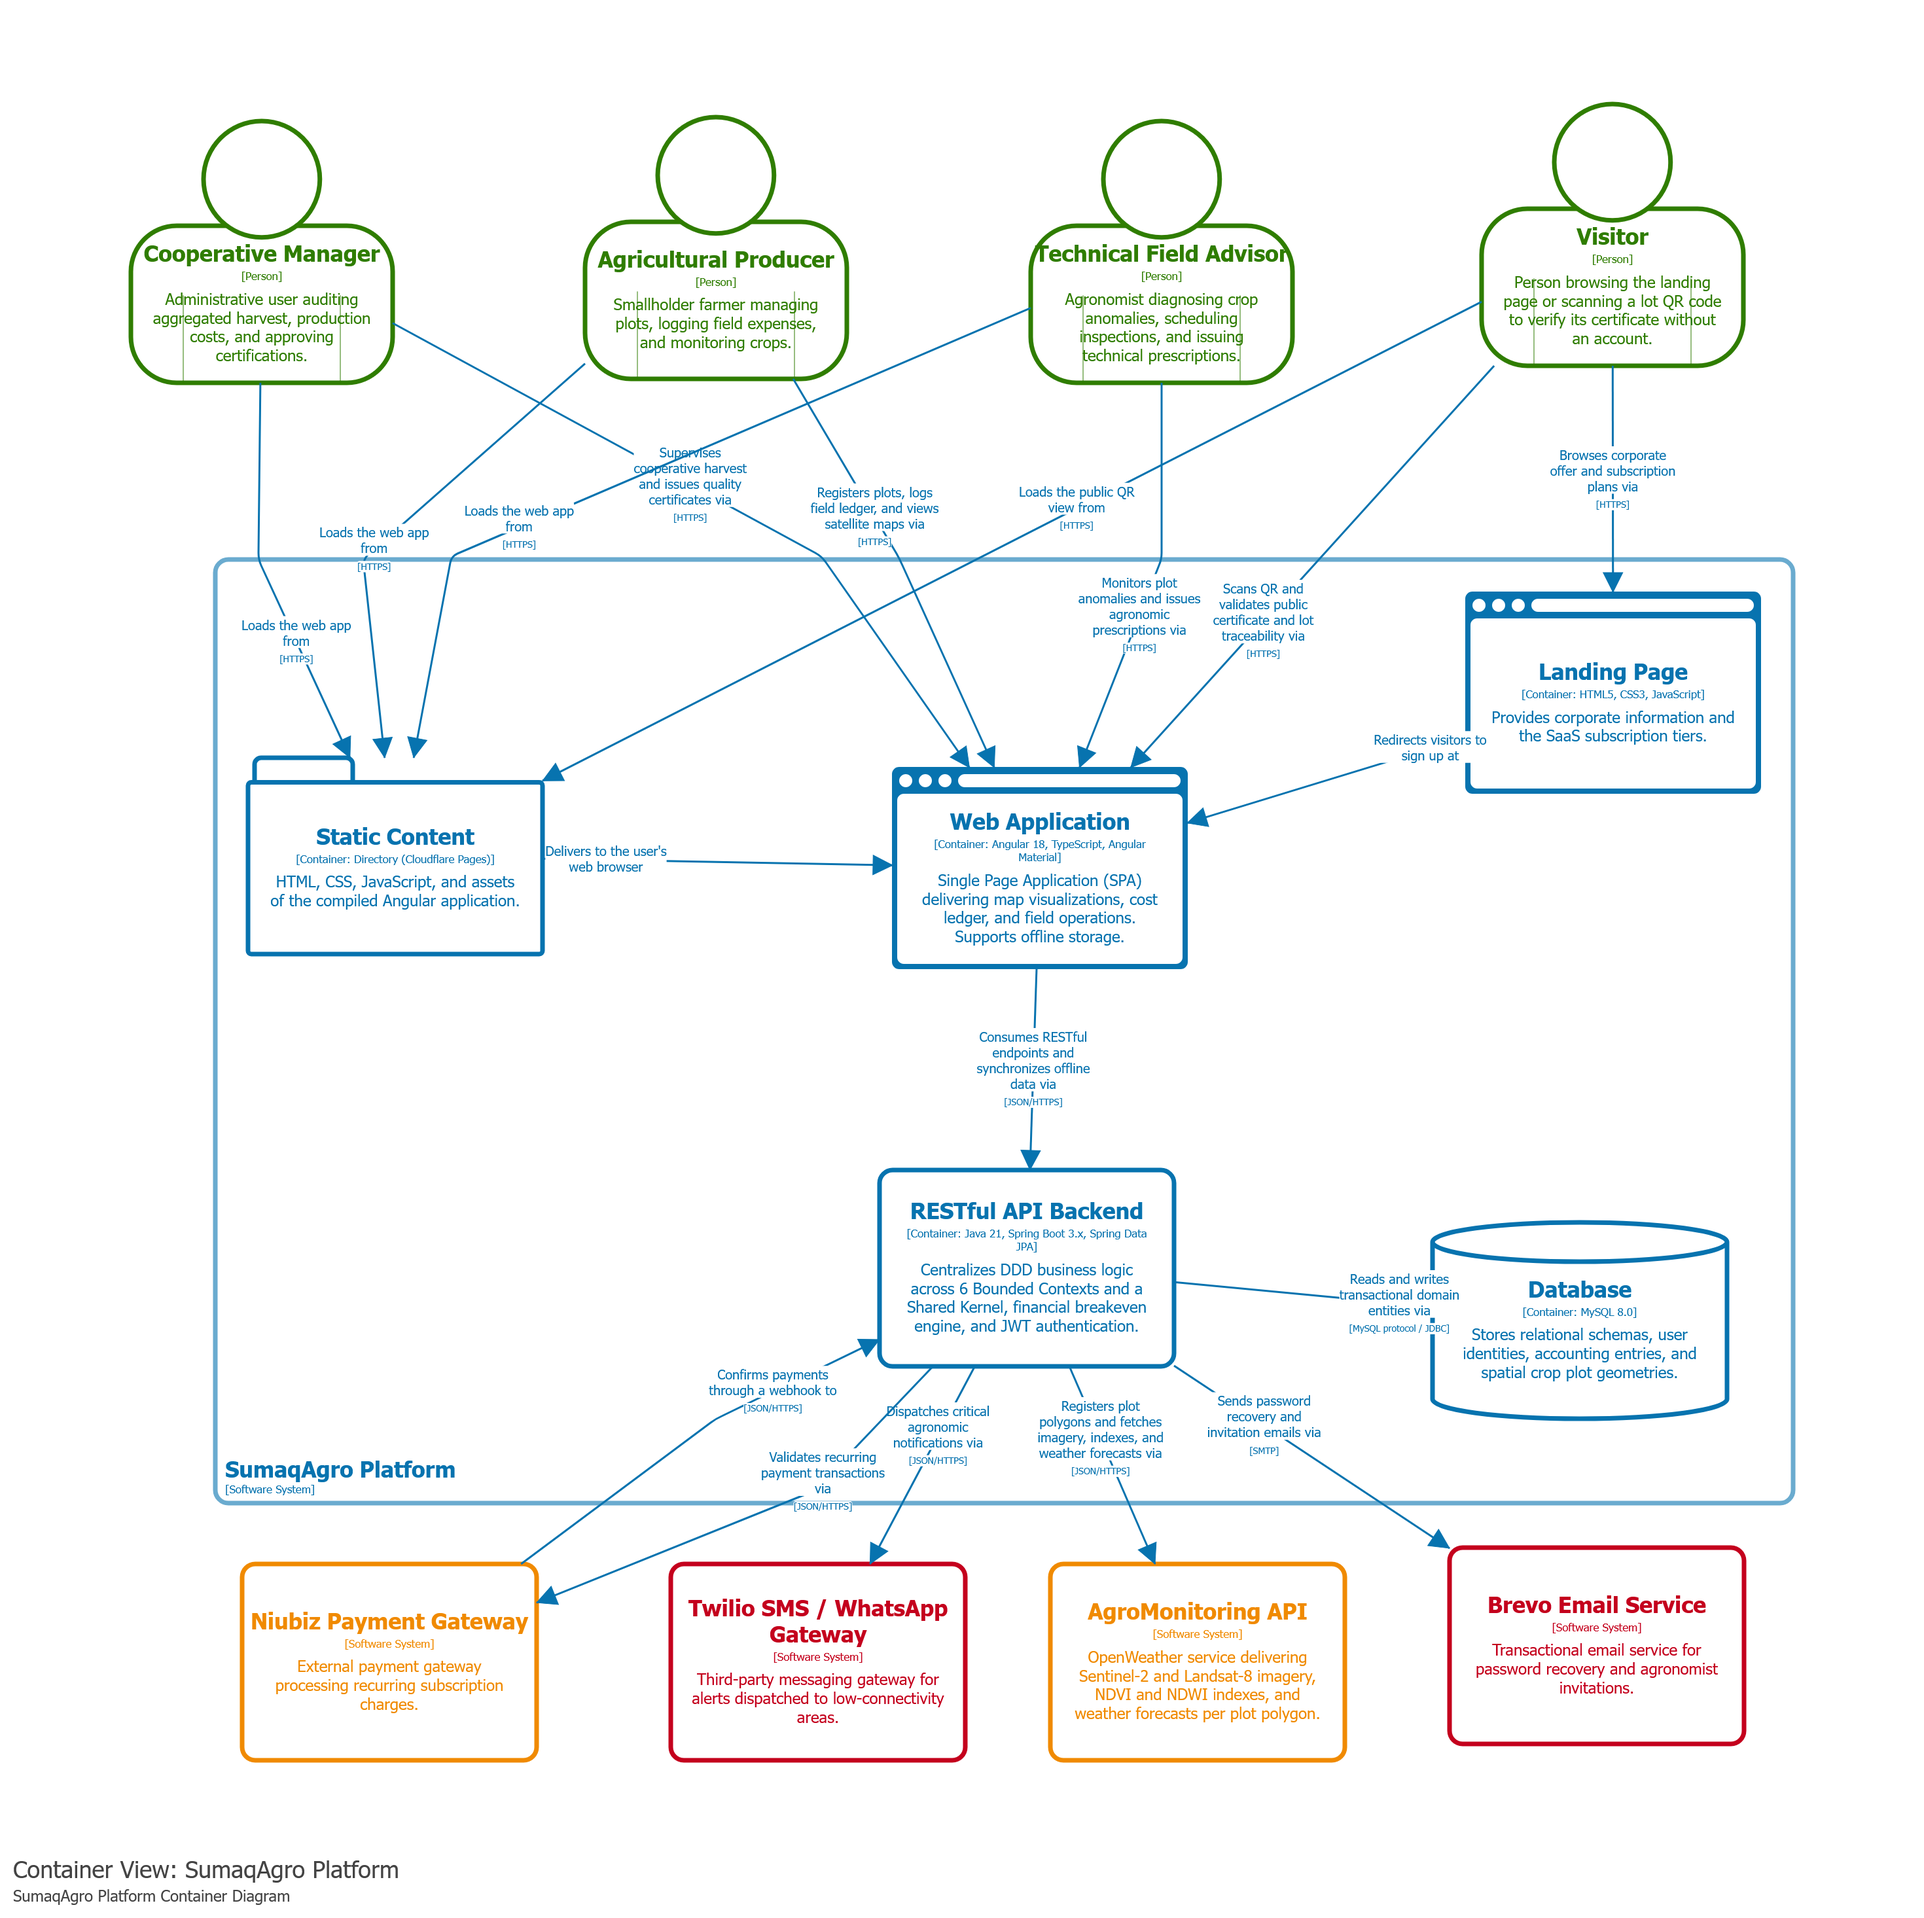
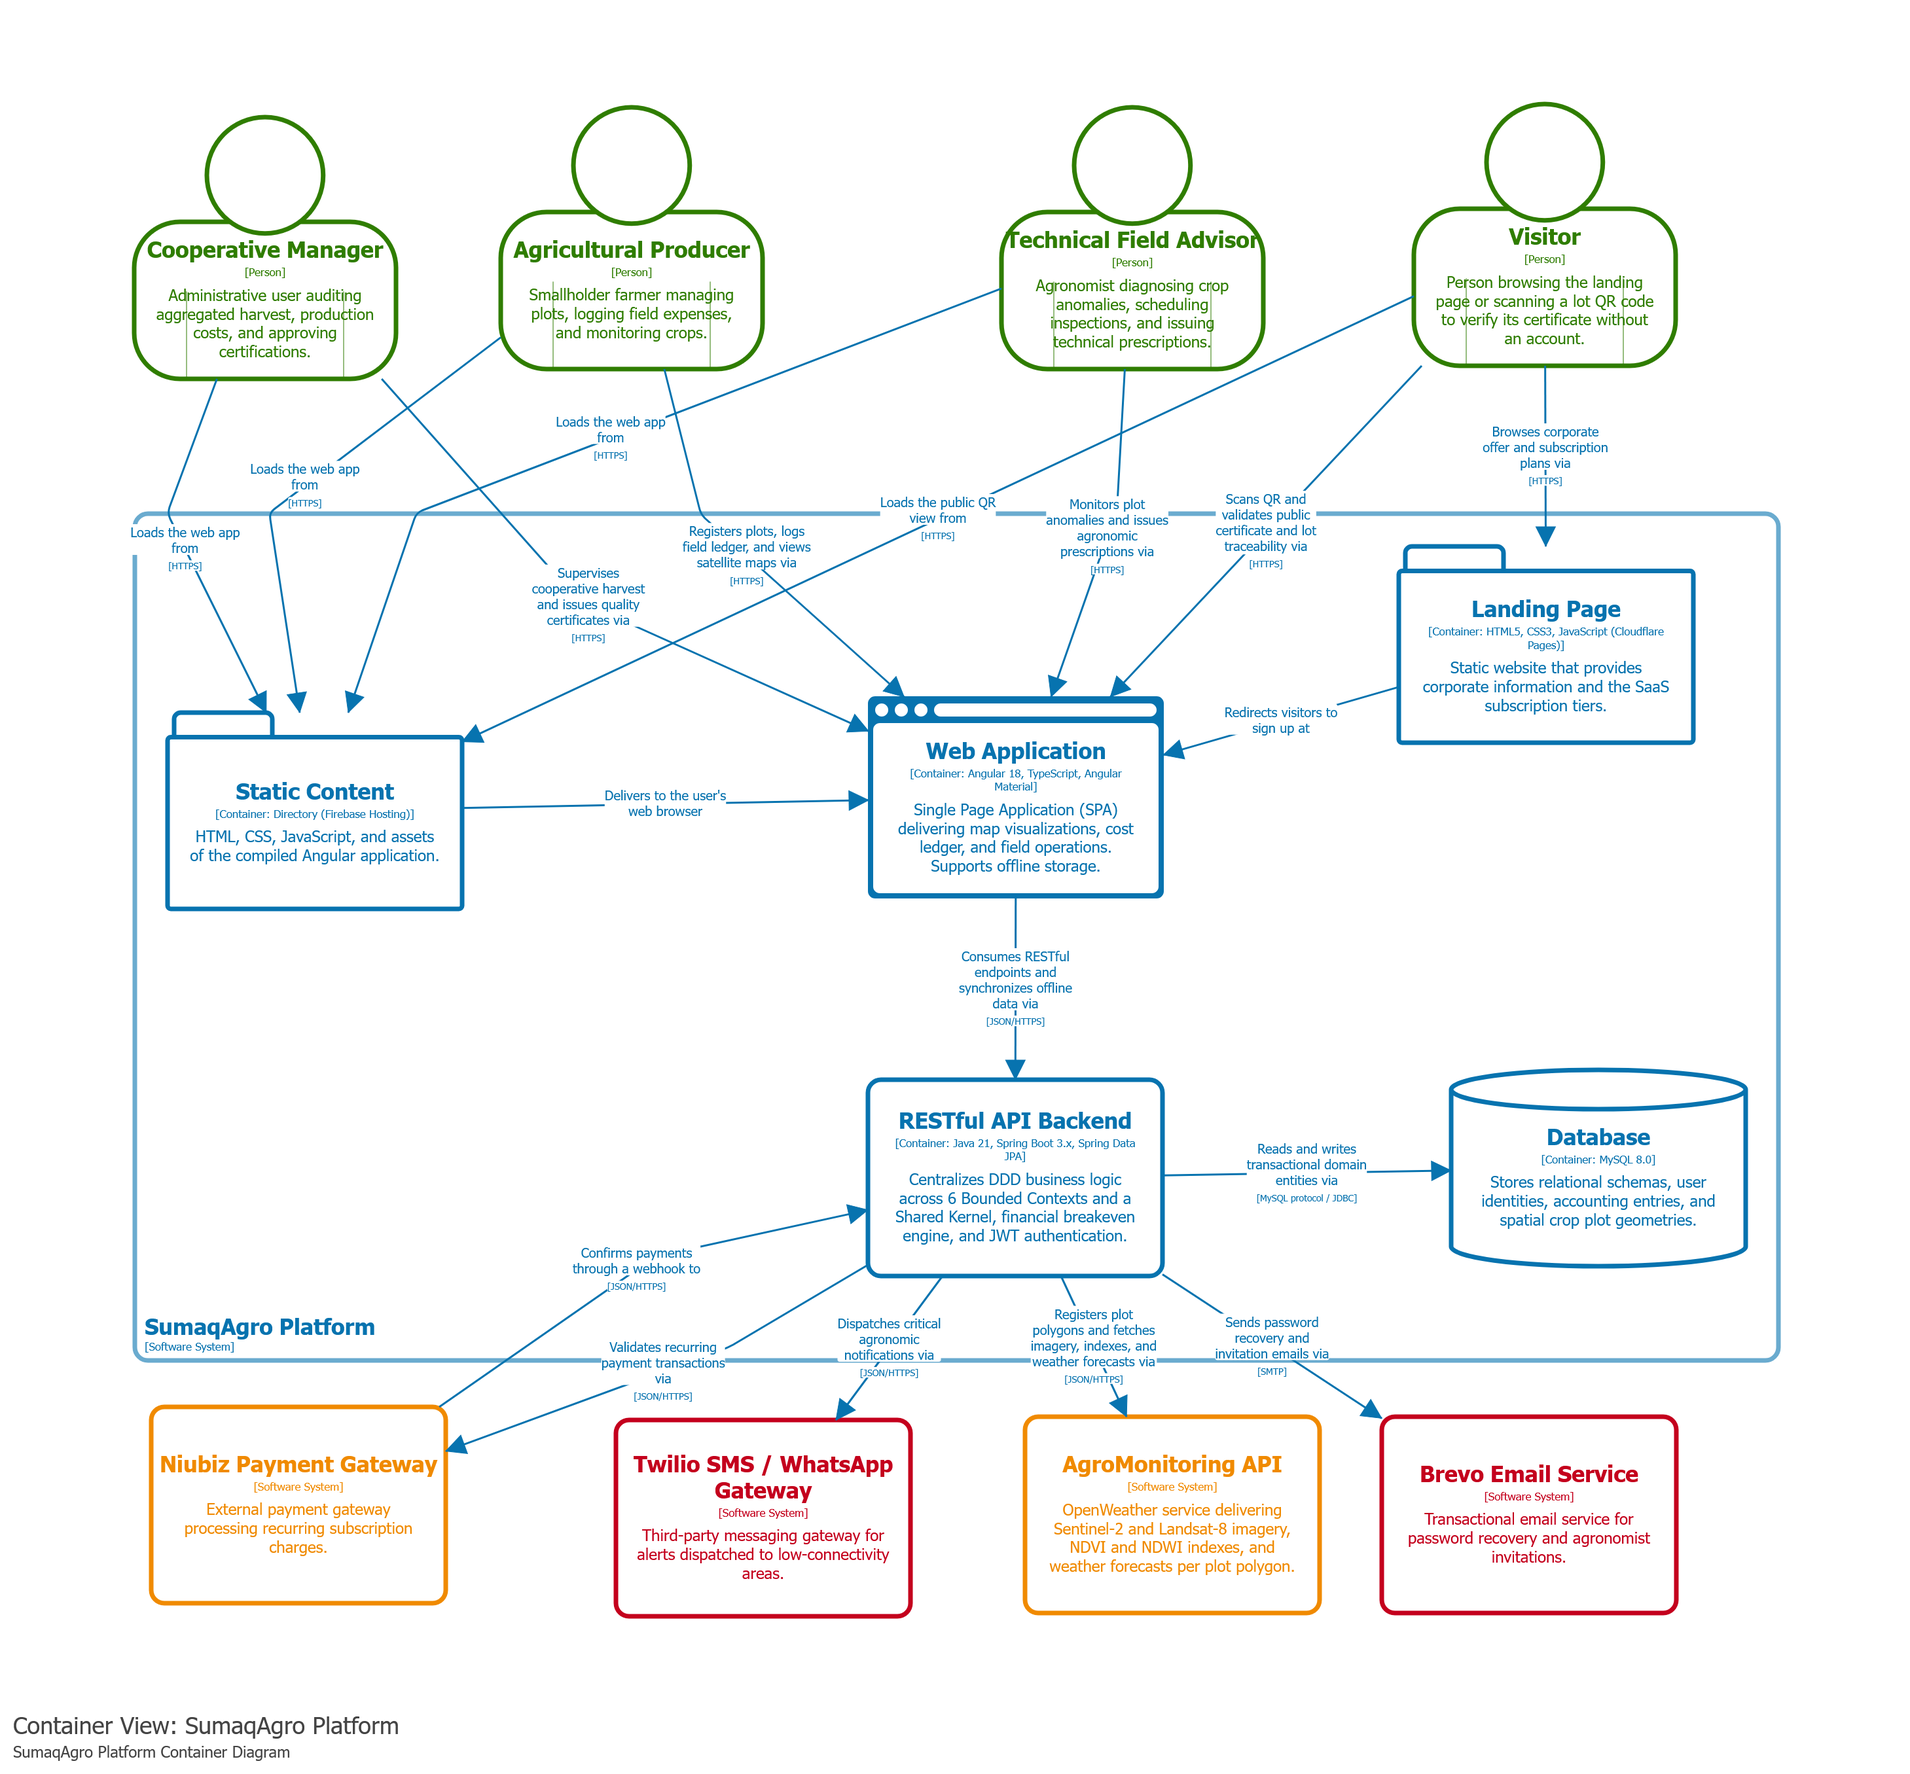
docs(chapter-4): update hosting references from Cloudflare Pages to Firebase Hosting

diff --git a/report/40-chapter-4-design.md b/report/40-chapter-4-design.md
@@ -1523,10 +1523,10 @@ En esta sección se presenta y describe el Diagrama de Contenedores (Nivel 2 del
 La topología de ejecución del sistema está conformada por cinco contenedores:
 
 * **Static Content Container:**
-  Carpeta con los archivos compilados de la Web Application (HTML, CSS, JavaScript e imágenes), publicada en Cloudflare Pages. Desde aquí el navegador del productor, del directivo y del agrónomo descarga la aplicación Angular. El visitante también la usa para abrir la vista pública del certificado al escanear un código QR.
+  Carpeta con los archivos compilados de la Web Application (HTML, CSS, JavaScript e imágenes), publicada en Firebase Hosting. Desde aquí el navegador del productor, del directivo y del agrónomo descarga la aplicación Angular. El visitante también la usa para abrir la vista pública del certificado al escanear un código QR.
 
 * **Landing Page Container:**
-  Sitio web público estático desarrollado con HTML5, CSS3 y JavaScript vanilla, alojado en un servicio cloud de distribución estática. Diseñado con una carga ligera para garantizar un rendimiento óptimo en terminales móviles bajo redes rurales 3G/4G. Su propósito es exponer la propuesta de valor del producto, presentar los planes de suscripción comercial (Semilla, Cooperativa Pro y Asesor Técnico) y llevar al visitante al registro de la Web Application. No se comunica con el backend: es un sitio estático.
+  Carpeta de archivos estáticos del sitio web público, desarrollado con HTML5, CSS3 y JavaScript vanilla y publicado en Cloudflare Pages. Diseñado con una carga ligera para garantizar un rendimiento óptimo en terminales móviles bajo redes rurales 3G/4G. Su propósito es exponer la propuesta de valor del producto, presentar los planes de suscripción comercial (Semilla, Cooperativa Pro y Asesor Técnico) y llevar al visitante al registro de la Web Application. No se comunica con el backend: es un sitio estático.
 
 * **Web Application Container (Single Page Application - SPA):**
   Aplicación web cliente desarrollada sobre el framework Angular 18, utilizando TypeScript y la biblioteca Angular Material. Provee una interfaz reactiva y accesible tanto para productores de campo como para administradores de cooperativas e ingenieros agrónomos. Integra capacidades de almacenamiento local mediante *Service Workers* e *IndexedDB*, lo que permite soportar operaciones en modo desconectado (*offline-first*) para el registro de gastos de campo y de reportes de plagas en predios rurales sin cobertura de datos móvil, sincronizando la información automáticamente contra la API REST al recuperar la conexión a internet. Asimismo, aloja el visor público interactivo que permite auditar las credenciales y trazabilidad de los lotes cuando un visitante escanea el código QR impreso.
